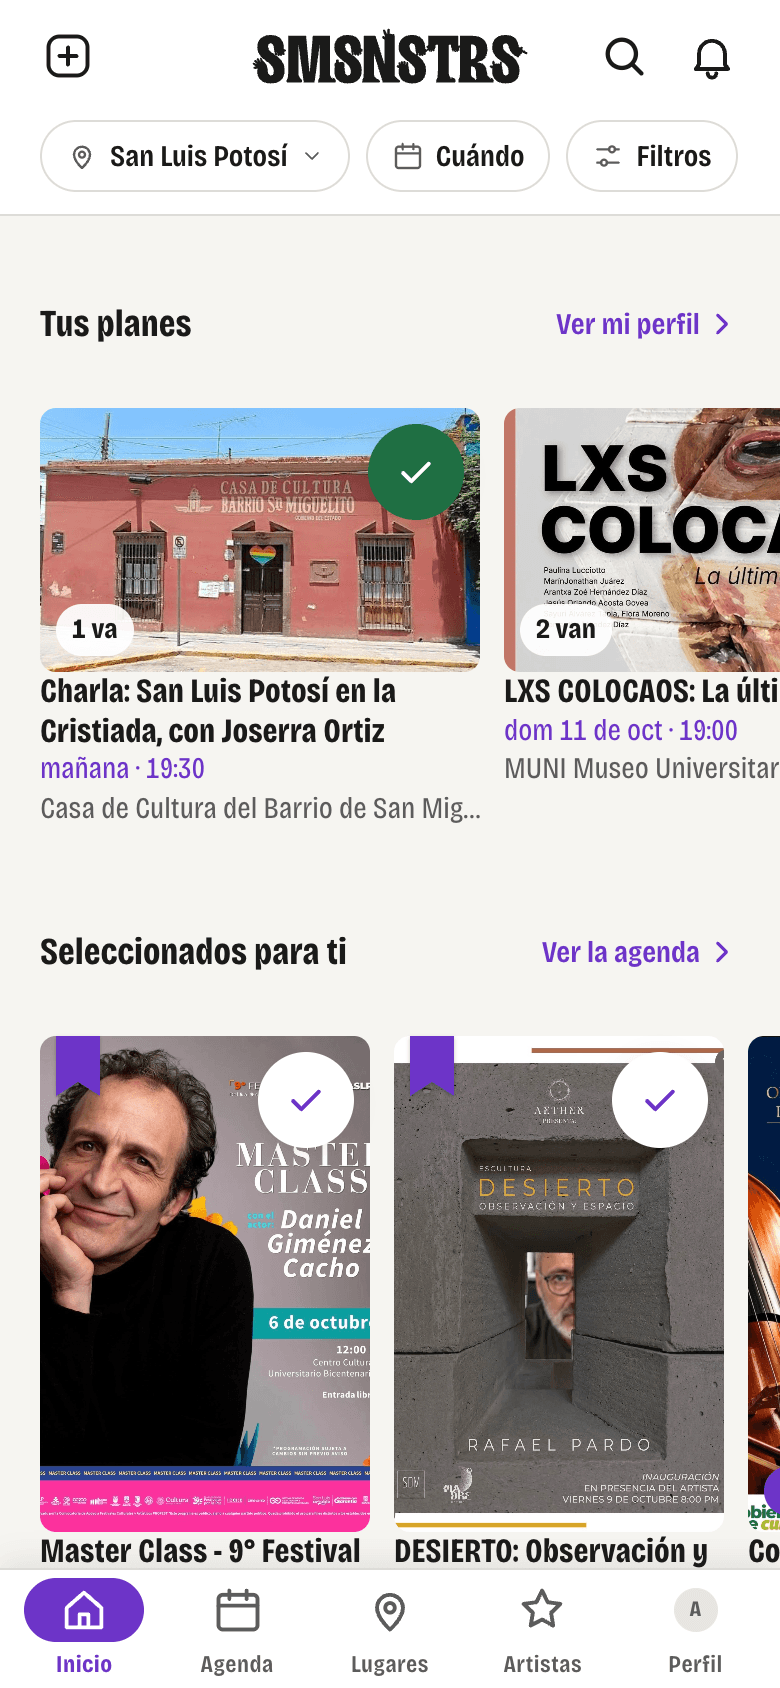
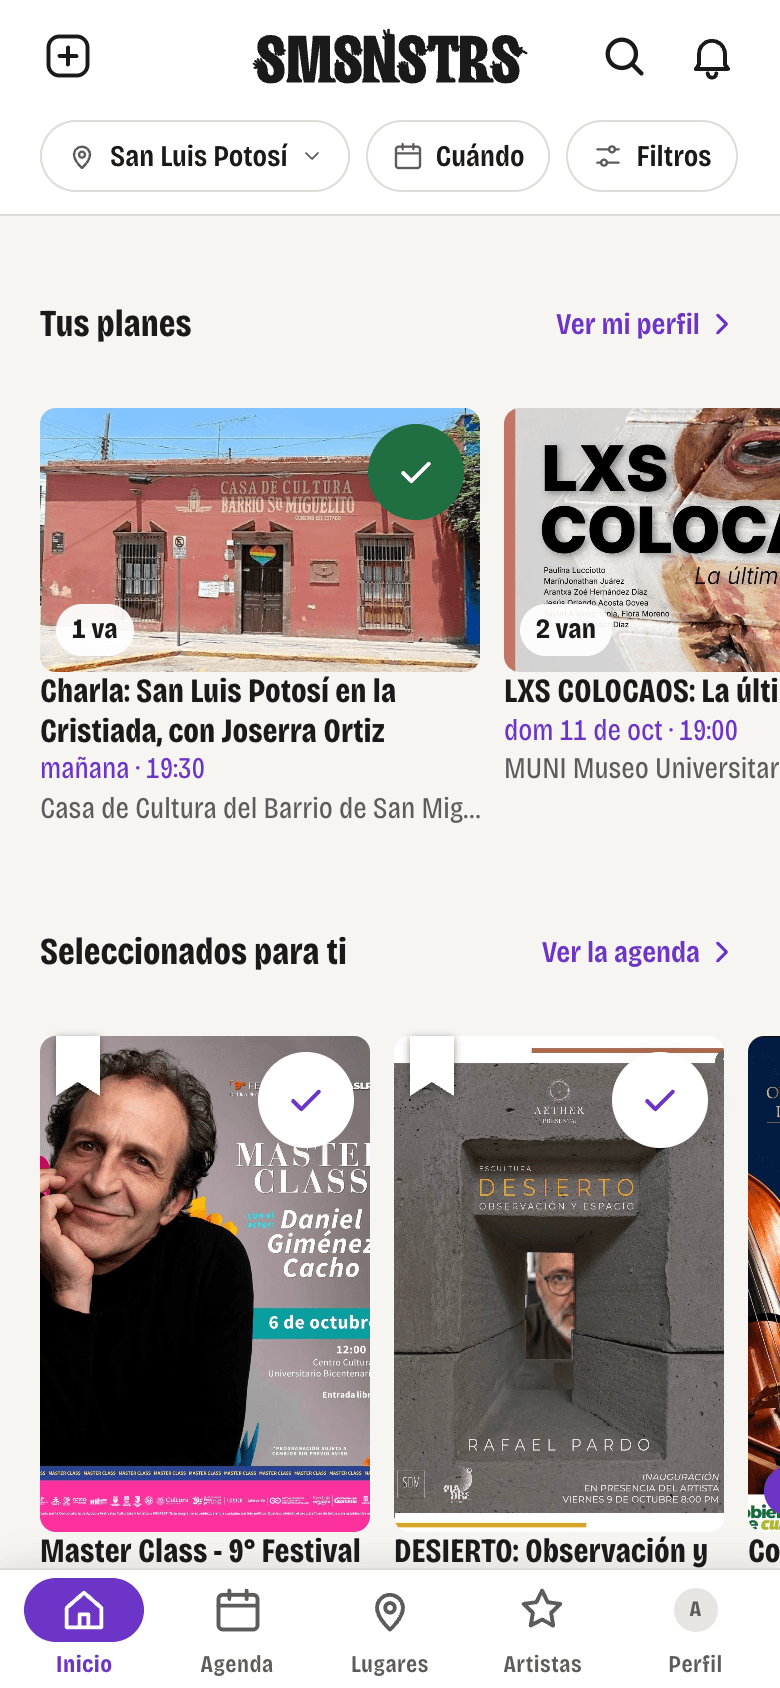
OL-253 · Cinta blanca y artistas de la semana después de los destacados
La cinta pasa a --primario-texto con la sombra --sombra-cinta más marcada; «Artistas con eventos esta semana» va después de «Artistas destacadxs» (no los repite). Sin cambios en medir.

diff --git a/src/components/Inicio.tsx b/src/components/Inicio.tsx
@@ -33,7 +33,7 @@ type Props = {
 
 /**
  * Inicio (docs/rediseno/41, tercera vuelta OL-219; doc 50, P5): solo carriles — Tus planes, Destacados, Esta semana,
- * Nuevos eventos, Lugares con eventos esta semana, Artistas con eventos esta semana y Artistas destacadxs, cada uno con su título a la izquierda y, a la derecha, el
+ * Nuevos eventos, Lugares con eventos esta semana, Artistas destacadxs y Artistas con eventos esta semana, cada uno con su título a la izquierda y, a la derecha, el
  * enlace que dice a dónde lleva — bajo la fila de contexto de las pantallas de eventos (`FilaEventos`: ciudad, Cuándo y
  * Filtros). Cuándo y Filtros no filtran a Inicio: al aplicarlos llevan a Agenda con eso puesto. Carga progresiva (pedido
  * del founder tras probar en producción): esta pantalla ya no espera ninguna consulta antes de pintar; cada carril llega
@@ -76,10 +76,11 @@ export default function Inicio({ ciudad, ciudades, hoy, zona, agenda, conSesion,
       <Suspense fallback={<CarrilEsqueleto tamano="mediana" />}>{slotEstaSemana}</Suspense>
       <Suspense fallback={<CarrilEsqueleto tamano="mediana" />}>{slotNuevos}</Suspense>
       <Suspense fallback={<CarrilEsqueleto tamano="chica" />}>{slotLugaresSemana}</Suspense>
-      <Suspense fallback={<CarrilEsqueleto tamano="chica" />}>{slotArtistasSemana}</Suspense>
       {/* OL-165: «Artistas destacadxs» pasó a grande (misma tarjeta que la tira de Artistas); el esqueleto
           cambia con él para no saltar cuando llega la respuesta real. */}
       <Suspense fallback={<CarrilEsqueleto tamano="grande" />}>{slotArtistasDestacados}</Suspense>
+      {/* OL-253: va después de los destacados porque no los repite (`app/page.tsx`). */}
+      <Suspense fallback={<CarrilEsqueleto tamano="chica" />}>{slotArtistasSemana}</Suspense>
     </PantallaConAviso>
   );
 }

diff --git a/src/components/ui/MarcaDestacado.tsx b/src/components/ui/MarcaDestacado.tsx
@@ -2,9 +2,9 @@ import { IconoCinta } from "./Iconos";
 import styles from "./MarcaDestacado.module.css";
 
 /**
- * La marca de un evento destacado (OL-253; founder, 2026-10-01): una cinta violeta, como un separador de libro, que cuelga del borde
- * superior de la foto de su tarjeta o de la miniatura de su renglón, a la izquierda. Sin círculo: la flama de trazo no se leía y la
- * estrella ya es la pestaña Artistas. Quien la lleva le da su sitio con `className` (el área de su rejilla) y su ancho con
+ * La marca de un evento destacado (OL-253; founder, 2026-10-01): una cinta blanca, como un separador de libro, que cuelga del borde
+ * superior de la foto de su tarjeta o de la miniatura de su renglón, a la izquierda. Sin círculo, y blanca porque la violeta no se veía sobre
+ * la imagen (la flama de trazo tampoco se leía; la estrella ya es la pestaña Artistas). Quien la lleva le da su sitio con `className` (el área de su rejilla) y su ancho con
  * `--marca-ancho` (`--marca-tarjeta` o `--marca-renglon`, globals.css); el alto sale de la proporción del icono.
  */
 export default function MarcaDestacado({ className }: { className?: string }) {

diff --git a/src/components/ui/MarcaDestacado.module.css b/src/components/ui/MarcaDestacado.module.css
@@ -1,9 +1,9 @@
-/* La marca de «destacado» (ui/MarcaDestacado): una cinta del color de acción con una sombra suave para leerse sobre fotos claras. El ancho
+/* La marca de «destacado» (ui/MarcaDestacado): una cinta blanca (`--primario-texto`) con una sombra suave (`--sombra-cinta`) para leerse sobre fotos claras. El ancho
    (`--marca-ancho`) y el sitio los pone quien la lleva; el alto sale de la proporción del icono. */
 .marca {
   display: block;
   width: var(--marca-ancho);
-  color: var(--primario);
+  color: var(--primario-texto);
   filter: drop-shadow(var(--sombra-cinta));
 }
 .marca > svg {

diff --git a/src/app/globals.css b/src/app/globals.css
@@ -41,7 +41,7 @@
   --sombra-panel: 0 -2px 16px rgba(0, 0, 0, 0.1);
   --sombra-flotante: 0 6px 20px rgba(0, 0, 0, 0.22);
   --sombra-asa: 0 0 3px rgba(0, 0, 0, 0.35); /* el asa de la hoja de Lugares */
-  --sombra-cinta: 0 1px 1px rgba(0, 0, 0, 0.25); /* la cinta de «destacado»: se lee sobre fotos claras */
+  --sombra-cinta: 0 1px 2px rgba(0, 0, 0, 0.45); /* la cinta blanca de «destacado»: se lee sobre fotos claras */
   --sombra-punto: 0 1px 4px rgba(0, 0, 0, 0.3); /* el punto «tú estás aquí» del mapa */
   --sombra-perilla: 0 1px 3px rgba(0, 0, 0, 0.3); /* la perilla de un interruptor */
 

diff --git a/docs/bitacora/2026/10/280-artistas-estrella-hoy.md b/docs/bitacora/2026/10/280-artistas-estrella-hoy.md
@@ -10,16 +10,16 @@ Se repone lo mínimo de lo que retiraron P5 (OL-233, `17fad74e`) y OL-243 (`63f4
 
 - `lib/cargarEventosSemana.ts` y `lib/eventosSemana.ts`: vuelve el modo `"artistas"` (lectura de `eventos_artistas` por lotes, mismo presupuesto de filas, consultas y tiempo, y el mismo corte exacto de la semana). Restaurados tal cual estaban en `63f4d060^`, con sus pruebas.
 - Dos diferencias de fondo con aquel modo: la ficha **sin foto entra igual** (antes «un destacado exige foto», H-03; ahora quien pinta la tarjeta pone el símbolo SN) y toda tarjeta trae `cuando: true`, porque su `detalle` es siempre un día y una hora. Esto vale también para los lugares: un lugar sin portada con evento ya sale en «Lugares con eventos esta semana».
-- `app/page.tsx`: `semanaArtistasPromise` = `cargarEventosSemana(…, "artistas", …)` menos los ids que ya están en `artistasDestacadosPromise` (no se repite). `Inicio.tsx`: `slotArtistasSemana`, entre «Lugares…» y «Artistas destacadxs», con el esqueleto redondo (`chica`). El carril usa `CarrilEntidad` tal cual (botón Seguir, memoria de pantalla `inicio-artistas-semana`, «Ver artistas»).
+- `app/page.tsx`: `semanaArtistasPromise` = `cargarEventosSemana(…, "artistas", …)` menos los ids que ya están en `artistasDestacadosPromise` (no se repite). `Inicio.tsx`: `slotArtistasSemana`, **después** de «Artistas destacadxs» (orden pedido por el founder el mismo día: primero lo elegido, luego lo de la semana, y así la regla de no repetir se lee de arriba abajo), con el esqueleto redondo (`chica`). El carril usa `CarrilEntidad` tal cual (botón Seguir, memoria de pantalla `inicio-artistas-semana`, «Ver artistas»).
 - `Destacados.tsx`: una tarjeta **redonda** (`chica`) sin foto pinta `SIN_FOTO` (`/sin-foto.png`, la imagen ya generada, nunca compuesta en vivo) dentro del círculo; las demás sin foto siguen con el nombre grande sobre fondo suave (H-03). Antes, una redonda sin foto caía en ese fondo con el nombre dentro y salía cuadrada.
 - Título «Lugares con eventos» → «Lugares con eventos esta semana» (`page.tsx`).
 
 ## 2. Cinta en los eventos destacados
 
-Decisión del founder (2026-10-01): la flama de trazo no se lee (a 17 px se veía como una gota; de relleno, peor) → cinta colgante violeta, sin círculo ni vidrio, que cuelga del borde superior de la foto como un separador de libro.
+Decisión del founder (2026-10-01): la flama de trazo no se lee (a 17 px se veía como una gota; de relleno, peor) → cinta colgante, sin círculo ni vidrio, que cuelga del borde superior de la foto como un separador de libro. Primero violeta; **el founder la pidió blanca** porque la violeta no se veía sobre la imagen (mismo día).
 
 - `ui/Iconos.tsx`: `IconoCinta` (viewBox 22×30, `M0 0h22v30l-11-7-11 7z`, relleno `currentColor`, sin trazo; con `width`/`height` 22×30 para que su proporción sea la del dibujo y el alto salga del ancho). `IconoFlama` se quita: ya nadie la usa.
-- `ui/MarcaDestacado.tsx` + `.module.css`: la cinta en `--primario` con `filter: drop-shadow(var(--sombra-cinta))` (token nuevo `0 1px 1px rgba(0,0,0,.25)`, para que se lea sobre fotos claras), `role="img"` con nombre «Destacado». Sin círculo. Quien la lleva le da su sitio (el área de su rejilla) y su ancho (`--marca-ancho`: `--marca-tarjeta` 22 px o `--marca-renglon` 14 px, `globals.css`).
+- `ui/MarcaDestacado.tsx` + `.module.css`: la cinta en `--primario-texto` (blanco, el token que ya existe) con `filter: drop-shadow(var(--sombra-cinta))` (token nuevo; primero `0 1px 1px rgba(0,0,0,.25)`, subido a `0 1px 2px rgba(0,0,0,.45)` porque sobre las miniaturas claras apenas se notaba el borde), `role="img"` con nombre «Destacado». Sin círculo. Quien la lleva le da su sitio (el área de su rejilla) y su ancho (`--marca-ancho`: `--marca-tarjeta` 22 px o `--marca-renglon` 14 px, `globals.css`).
 - **Tarjetas** (`Destacados.module.css`): hijo del `<a>` en el área de la foto (`1 / 1`), pegada al borde superior (sin margen arriba) y a `--espacio-2` del borde izquierdo: 22×30. Sin `position: absolute` ni márgenes negativos.
 - **Renglones de Agenda** (`ui/Renglon.tsx`, prop `destacado`; `Renglon.module.css`): hijo de `.frente` en el área `foto`, colgando del borde superior de la miniatura con `--espacio-2` a la izquierda: 14×19 (la proporción de 22×30 sobre la miniatura de 56 px). Ni el renglón ni el título ni la meta se mueven (lo comprueba la prueba).
 - Qué es «destacado»: los ids de `agenda.destacados` (`tira_destacados('eventos', ciudad)`). `tarjetaEvento(e, ahora, destacado)` lo copia a la tarjeta (`destacado`, solo cuando es verdad); `CarrilAgenda` lo pide para «Esta semana», «Nuevos eventos» y, con sesión y seguimientos, «Seleccionados para ti» (que mezcla destacados con lo que se sigue). **No lleva marca la tira «Destacados» misma** (todos lo son), ni «Tus planes» (agenda personal; no recibe la tira). `AgendaLista` y `AgendaNuevos` pasan `destacado` a `RenglonEvento`.
@@ -33,7 +33,7 @@ Decisión del founder (2026-10-01): la flama de trazo no se lee (a 17 px se veí
 
 - `eventosSemana.test.ts` / `cargarEventosSemana.test.ts`: las de artistas restauradas; la de H-03 cambia de sentido (la ficha sin foto entra, con `foto: null` y `cuando: true`).
 - `destacados.test.ts`: `selloDeTarjeta` con `hoy`; `destacado` solo si se pide.
-- `Destacados.componentes.test.mjs` (+3): «Hoy» `rgb(109, 52, 200)` con texto blanco y «N van» sin tocar; la cinta a 22×30, a 8 px del borde izquierdo y a 0 del superior, sin cruzar botón ni rótulo, relleno `rgb(109, 52, 200)`, fondo transparente y sombra de `--sombra-cinta`; la redonda sin foto con `/sin-foto.png`, `border-radius: 50%` y fecha violeta; las no redondas sin foto, sin imagen. `Renglon.componentes.test.mjs` (+1): la cinta a 14×19, a 8 px a la izquierda y a 0 arriba, dentro de la miniatura, sin mover el renglón.
+- `Destacados.componentes.test.mjs` (+3): «Hoy» `rgb(109, 52, 200)` con texto blanco y «N van» sin tocar; la cinta a 22×30, a 8 px del borde izquierdo y a 0 del superior, sin cruzar botón ni rótulo, relleno blanco `rgb(255, 255, 255)`, fondo transparente y sombra de `--sombra-cinta`; la redonda sin foto con `/sin-foto.png`, `border-radius: 50%` y fecha violeta; las no redondas sin foto, sin imagen. `Renglon.componentes.test.mjs` (+1): la cinta a 14×19, a 8 px a la izquierda y a 0 arriba, dentro de la miniatura, sin mover el renglón.
 - `npm run lint` (solo el aviso previo de `VisorImagen.componentes.test.mjs`), `typecheck`, `test` (1685), `inventario` (sin novedades), `test:componentes` (209 de 209), `medir` (sin novedades tras anotar los presupuestos de abajo; el cambio de flama a cinta no movió ninguna medida: mismos nodos y profundidad): verdes.
 
 ### Presupuestos de `medir` que subieron, uno por uno (`medidas.aceptadas.json`)
@@ -54,15 +54,15 @@ Ningún otro presupuesto cambió y ningún hallazgo de caja, toque, tapado ni ma
 
 ## Capturas (`docs/rediseno/capturas-280/app-*.png`, 390×844 a 2x, Chrome, build local contra el respaldo de datos inventados con el reloj fijo de `medir`, 2026-10-07 10:00; los carteles son los públicos del respaldo)
 
-- `app-01-inicio-seleccionados-con-cinta.png`: Ana (con sesión). «Tus planes» sin marca; «Seleccionados para ti» con la cinta violeta de muesca en V colgando del borde superior de la foto, a la izquierda, en «Master Class» y en «DESIERTO», con su sombra suave (se lee sobre el cartel claro de DESIERTO y el oscuro de Master Class); el botón de palomita arriba a la derecha, sin cruzarse.
-- `app-02-inicio-lugares-y-artistas-con-eventos.png`: «Lugares con eventos esta semana» con las fechas en violeta («Mañana · 19:30», «sáb 10 de oct · 18:00» partida en dos líneas); debajo «Artistas con eventos esta semana» con «Ver artistas» a la derecha, tres círculos con el símbolo SN gris (0Backside0 «Hoy · 19:00», Abril Merlot, Aaron Cadena, fechas violetas) y el botón de seguir; al final asoma «Artistas destacadxs» con los artistas con cartel, que no se repiten arriba.
+- `app-01-inicio-seleccionados-con-cinta.png`: Ana (con sesión). «Tus planes» sin marca; «Seleccionados para ti» con la cinta blanca de muesca en V colgando del borde superior de la foto, a la izquierda, en «Master Class» y en «DESIERTO», con su sombra suave (se lee con claridad sobre el cartel oscuro de Master Class; en DESIERTO la foto tiene un borde blanco arriba y allí la cinta se distingue por su sombra y su muesca); el botón de palomita arriba a la derecha, sin cruzarse.
+- `app-02-inicio-lugares-y-artistas-con-eventos.png`: el nuevo orden. «Artistas destacadxs» (Orquesta Sinfónica «hoy · 18:00», Pimpolina «sáb 10 de oct · 18:00», con el botón de seguir o palomita arriba a la derecha) y, debajo, «Artistas con eventos esta semana» con «Ver artistas» a la derecha: tres círculos con el símbolo SN gris (0Backside0 «Hoy · 19:00», Abril Merlot «Mañana · 19:30», Aaron Cadena «lun 12 de oct · 18:00», fechas en violeta). Quienes tienen cartel salen arriba y no se repiten en el carril de la semana.
 - `app-03-inicio-destacados-sin-marca.png`: sin sesión. La tira «Destacados» no lleva flama en ninguna tarjeta («2 van» sigue en vidrio); debajo, «Esta semana» con el sello «Hoy» ya violeta.
 - `app-04-inicio-hoy-violeta.png`: «Esta semana», el sello «Hoy» en píldora violeta con texto blanco sobre el cartel de la Orquesta Sinfónica, junto a «1 va» en vidrio blanco en la tarjeta de al lado.
-- `app-05-agenda-cinta-en-miniatura.png`: Agenda; «LXS COLOCAOS» con la cinta de 14×19 colgando del borde superior de su miniatura, a 8 px del borde izquierdo; las demás filas (Inauguración, Susurros, Feleal) sin marca, con título, hora violeta y sitio en su sitio.
+- `app-05-agenda-cinta-en-miniatura.png`: Agenda; «LXS COLOCAOS» con la cinta blanca de 14×19 colgando del borde superior de su miniatura, a 8 px del borde izquierdo (sobre el cartel claro se distingue por su sombra y su muesca); las demás filas (Inauguración, Susurros, Feleal) sin marca, con título, hora violeta y sitio en su sitio.
 
 ## Límites y pendientes
 
-- Ninguna captura de Nuevos (hace falta tener más de dos eventos recién publicados) ni de «Tus planes» con marca (no la lleva). Las capturas `app-01` y `app-05` se rehicieron al cambiar la marca (las de la flama se retiraron); `app-02` a `app-04` no la muestran y se conservan.
+- Ninguna captura de Nuevos (hace falta tener más de dos eventos recién publicados) ni de «Tus planes» con marca (no la lleva). Las capturas `app-01`, `app-02` y `app-05` se rehicieron al cambiar la marca a cinta blanca y el orden de Inicio (las de la flama y la cinta violeta se retiraron); `app-03` y `app-04` no cambian. Sobre fotos muy claras la cinta blanca se apoya solo en su sombra: si el founder la ve floja, el ajuste es el token `--sombra-cinta`.
 - El carril de artistas con pocas tarjetas no se desliza (con tres caben); el desplazamiento y la memoria de pantalla son los de `Destacados`, ya probados.
 - Con 3 artistas sin foto el carril sale sin ninguna con foto; en producción, quien tiene foto y evento esta semana sale en «Artistas destacadxs» (hasta 12) y solo repite carril si lo deja fuera el tope.
 - Las capturas del prototipo (`docs/rediseno/capturas-280/0*.png`) se conservan junto a las de la app.

diff --git a/docs/ops/OPEN_LOOPS.md b/docs/ops/OPEN_LOOPS.md
@@ -11,7 +11,7 @@
 **Actualización 2026-09-18:** OL-083 tiene presupuesto de dos consultas, 1 000 relaciones y 750 ms; 396 pruebas y build correctos; entrega local al Gestor de cambios, sin despliegue.
 
 ## Ahora
-- **OL-253 · Artistas con eventos esta semana, cinta en los destacados, «Hoy» y fecha en violeta (2026-10-01).** Prototipo aprobado por el founder (operador Sonnet 5.5, rama `inicio-artistas-estrella`, bitácora 280): se repone el carril «Artistas con eventos esta semana» (entre «Lugares con eventos esta semana», antes «Lugares con eventos», y «Artistas destacadxs»; el modo artistas de `cargarEventosSemana` y `tarjetasDeSemana`, ya sin exigir foto: sin ella, el símbolo SN de `sin-foto.png` en la tarjeta redonda, también en lugares; quien ya sale en «Artistas destacadxs» no se repite); cinta colgante violeta (`IconoCinta`, `ui/MarcaDestacado`; decisión del founder del mismo día: la flama de trazo no se leía) que cuelga del borde superior de la foto a la izquierda, sin círculo, de 22×30 en tarjetas y 14×19 en renglones, en los eventos de `agenda.destacados` (carriles Esta semana, Nuevos y Seleccionados para ti, y renglones de Agenda; no en la tira «Destacados» ni en «Tus planes»); sello «Hoy» con `--primario` y `--primario-texto` (7,06:1); fecha en violeta en las tarjetas de lugares y artistas (`cuando: true`). Pruebas, `test:componentes` (209) y `medir` verdes; sube el presupuesto de nodos de Inicio, Agenda, Artistas y la ficha de artista (tabla en la bitácora, causa por causa: carril nuevo, flamas y tres relaciones nuevas en el respaldo local). Capturas en `docs/rediseno/capturas-280/`. PR contra `main`, sin unir.
+- **OL-253 · Artistas con eventos esta semana, cinta en los destacados, «Hoy» y fecha en violeta (2026-10-01).** Prototipo aprobado por el founder (operador Sonnet 5.5, rama `inicio-artistas-estrella`, bitácora 280): se repone el carril «Artistas con eventos esta semana» (después de «Artistas destacadxs» (orden del founder; y antes, «Lugares con eventos esta semana», antes «Lugares con eventos»); el modo artistas de `cargarEventosSemana` y `tarjetasDeSemana`, ya sin exigir foto: sin ella, el símbolo SN de `sin-foto.png` en la tarjeta redonda, también en lugares; quien ya sale en «Artistas destacadxs» no se repite); cinta colgante blanca (`IconoCinta`, `ui/MarcaDestacado`; decisiones del founder del mismo día: la flama de trazo no se leía y la cinta violeta no se veía sobre la imagen; sombra `--sombra-cinta`) que cuelga del borde superior de la foto a la izquierda, sin círculo, de 22×30 en tarjetas y 14×19 en renglones, en los eventos de `agenda.destacados` (carriles Esta semana, Nuevos y Seleccionados para ti, y renglones de Agenda; no en la tira «Destacados» ni en «Tus planes»); sello «Hoy» con `--primario` y `--primario-texto` (7,06:1); fecha en violeta en las tarjetas de lugares y artistas (`cuando: true`). Pruebas, `test:componentes` (209) y `medir` verdes; sube el presupuesto de nodos de Inicio, Agenda, Artistas y la ficha de artista (tabla en la bitácora, causa por causa: carril nuevo, flamas y tres relaciones nuevas en el respaldo local). Capturas en `docs/rediseno/capturas-280/`. PR contra `main`, sin unir.
 - **OL-251 · Fecha y hora en violeta; el título de las tarjetas se ajusta (2026-10-01).** Dos cambios del founder sobre el prototipo (versión 3, «A · Solo color»; operador Sonnet 5.5, rama `ui-fecha-violeta`, bitácora 279): la línea de cuándo en `var(--primario)` (renglones: icono y hora o fecha, con «Próximo: …» de lugar y artista; tarjetas de Inicio: su primer dato cuando es un cuándo, campo `cuando`), sin mover ni cambiar tamaño ni peso; y el carril deja el `subgrid`: cada tarjeta es su rejilla foto/título/datos, alineadas arriba, con la foto a su alto explícito (OL-246), así que un título de una línea ya no deja hueco (39.1 → 19.5 px). Lo sin foto ocupa la fila de la foto. Pruebas y `medir` verdes, sin tocar presupuestos; capturas en `docs/rediseno/capturas-279/`, incluidas dos del Safari del simulador. PR #290, sin unir.
 - **OL-250 · Atrás bloqueado en la app de iPhone tras entrar (2026-10-01).** Founder, en TestFlight: tras «Voy» sin cuenta y entrar con Apple, Atrás no hacía nada en el evento ni en el lugar abierto después; tuvo que matar la app. Causa medida en el simulador con la app nativa: `GestoAtrasPlugin` cancela todo retroceso que cruza de un documento a otro y la vuelta de Apple la carga el plugin a mano (documento nuevo, dos en realidad), así que `router.back()` iba al documento de Entrar y se cancelaba; la marca de llegada decía «hay pantalla detrás» por el referente. Arreglo solo web (operador Sonnet 5.5, rama `atras-app-nativa`, bitácora 278, PR #289 sin unir): en la app el documento sabe su marca base y Atrás solo usa el historial para entradas que el propio documento apiló; si no, va a la pantalla de la que se vino (Entrar la apunta: `previa`, también para la segunda carga) y si no a la madre; el rebobinado no se usa en la app; Safari y Chrome no cambian. Sin Swift: no hace falta compilación nueva. Pruebas: 8 casos en `historial.test.ts` y un caso de componente (falla sin el arreglo); lint, typecheck, test, inventario, componentes y medir verdes. Capturas antes/después en `docs/rediseno/capturas-278/`. Apple real solo lo valida el founder.
 - **OL-249 · Ajustes del founder, segunda tanda (2026-10-01).** Siete ajustes tras revisar la reestructura publicada (operador Sonnet 5.5, rama `ui-ajustes-2`, bitácora 277, PR #288 sin unir; cada ajuste en su commit, medido en Chrome y en el Safari del simulador): 1) Cuánto de Agenda gana «Con costo» y una sola función pura, `claseDeCosto`, da a cada evento su clase (gratis, cooperación o con costo); el respaldo local ya trae las tres. 2) «Seleccionados para ti», «Esta semana» y «Nuevos» no repiten lo que ya está en Tus planes **al cargar** (con `agenda.asistencias`); lo que se decide durante la visita se queda donde está (regla de OL-221 respetada). 3) Mover el mapa con un gesto (arrastrar, pellizcar, girar, inclinar, doble toque) recoge la hoja a su altura más baja, en la lista y en la ficha. 4) La hoja va directo a su altura al soltar con `scroll-snap`, sin la inercia larga y el tirón (en Safari: de ~2 s a ~0,4 s; llena conserva la inercia de la lista). 5) El visor de carteles se acerca: pellizco hasta 4×, arrastre, doble toque a 2,5× y rueda. 6) Tras entrar con Apple o Google, Atrás (botón y gesto) lleva a la pantalla de antes de la tarea: se retrocede el historial con `history.go` (antes no se reponía nada en Voy, Me interesa ni Seguir y el Atrás nativo caía en la página del proveedor). 7) La lista de la hoja de Lugares en dos grupos con título pegado, «Con eventos» primero. Sin migraciones. `npm run medir` cambia presupuestos (explicados en la bitácora). Pendiente del founder: probar en su iPhone (Apple de verdad no se pudo) y confirmar las decisiones de la bitácora (tocar la imagen a 1× cierra a los 280 ms, el título de grupo con un solo grupo, la doc 41).
